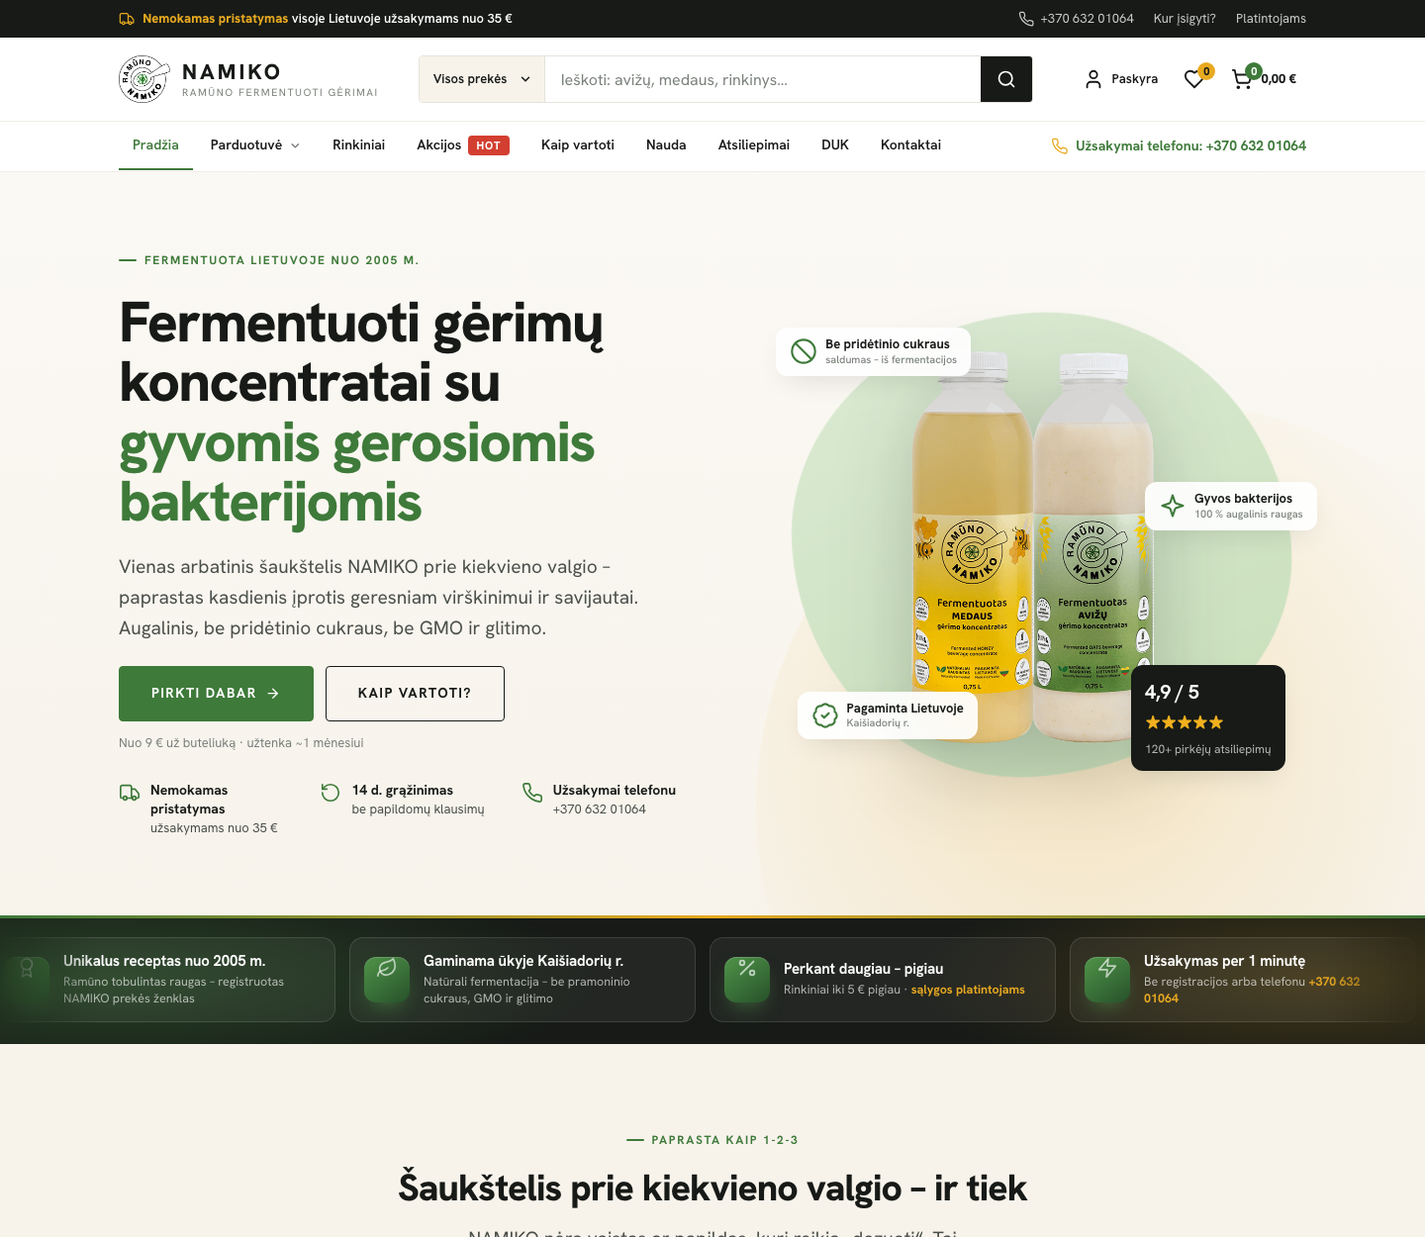
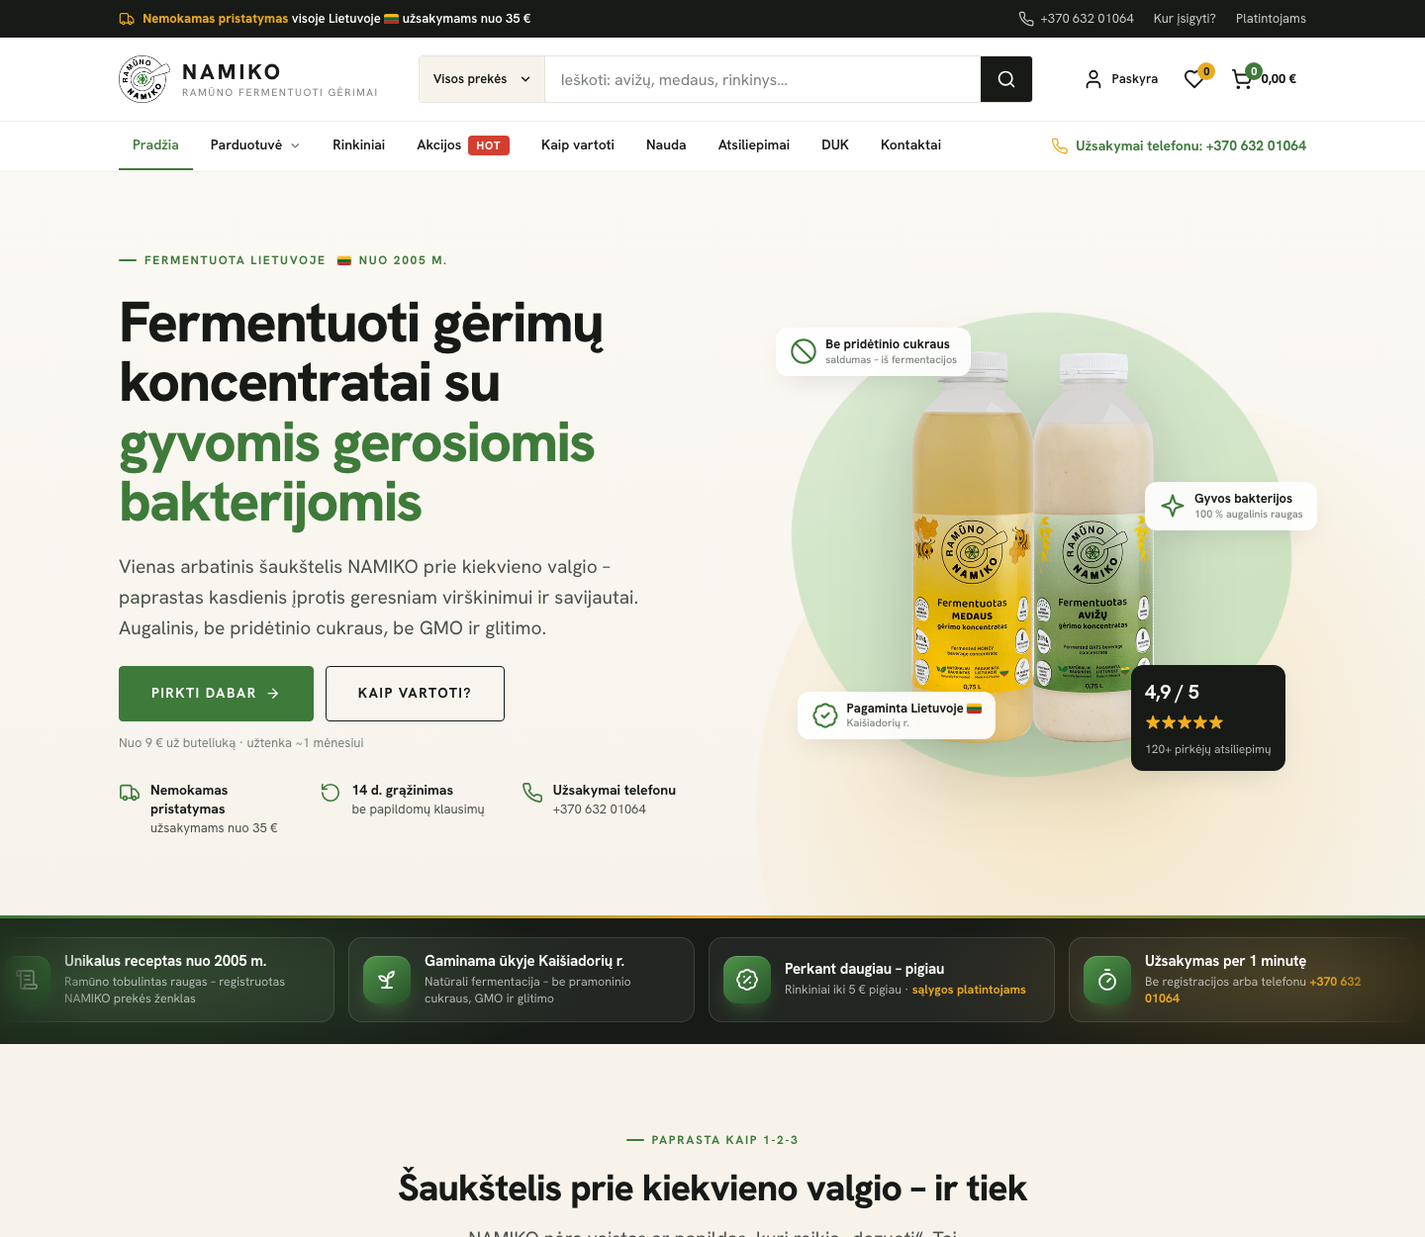
Judanti juosta: centruotos ikonų plytelės ir naujos ikonos
Pataisytas specifiškumo konfliktas (.usp-item span persverdavo .usp-icon
display:grid), ikonos pakeistos į receptą, daigą, nuolaidos ženklelį,
laikmatį ir pasikartojimą.

diff --git a/index.html b/index.html
@@ -14,7 +14,7 @@
 <link rel="preconnect" href="https://fonts.googleapis.com">
 <link rel="preconnect" href="https://fonts.gstatic.com" crossorigin>
 <link href="https://fonts.googleapis.com/css2?family=Hanken+Grotesk:ital,wght@0,400;0,500;0,600;0,700;0,800;1,400&display=swap" rel="stylesheet">
-<link rel="stylesheet" href="assets/css/style.css?v=9">
+<link rel="stylesheet" href="assets/css/style.css?v=10">
 <link rel="preload" as="image" href="assets/img/pradedanciuju-new.png" fetchpriority="high">
 </head>
 <body class="has-mobile-cta">
@@ -68,6 +68,11 @@
     <symbol id="i-trash" viewBox="0 0 24 24" fill="none" stroke="currentColor" stroke-width="2" stroke-linecap="round" stroke-linejoin="round"><path d="M3 6h18M8 6V4a2 2 0 0 1 2-2h4a2 2 0 0 1 2 2v2M19 6l-1 14a2 2 0 0 1-2 2H8a2 2 0 0 1-2-2L5 6"/></symbol>
     <symbol id="i-wheat" viewBox="0 0 24 24" fill="none" stroke="currentColor" stroke-width="1.8" stroke-linecap="round" stroke-linejoin="round"><path d="M2 22 16 8"/><path d="M3.47 12.53 5 11l1.53 1.53a3.5 3.5 0 0 1 0 4.94L5 19l-1.53-1.53a3.5 3.5 0 0 1 0-4.94Z"/><path d="M7.47 8.53 9 7l1.53 1.53a3.5 3.5 0 0 1 0 4.94L9 15l-1.53-1.53a3.5 3.5 0 0 1 0-4.94Z"/><path d="M11.47 4.53 13 3l1.53 1.53a3.5 3.5 0 0 1 0 4.94L13 11l-1.53-1.53a3.5 3.5 0 0 1 0-4.94Z"/><path d="M20 2h2v2a4 4 0 0 1-4 4h-2V6a4 4 0 0 1 4-4Z"/><path d="M11.47 17.47 13 19l-1.53 1.53a3.5 3.5 0 0 1-4.94 0L5 19l1.53-1.53a3.5 3.5 0 0 1 4.94 0Z"/><path d="M15.47 13.47 17 15l-1.53 1.53a3.5 3.5 0 0 1-4.94 0L9 15l1.53-1.53a3.5 3.5 0 0 1 4.94 0Z"/><path d="M19.47 9.47 21 11l-1.53 1.53a3.5 3.5 0 0 1-4.94 0L13 11l1.53-1.53a3.5 3.5 0 0 1 4.94 0Z"/></symbol>
     <symbol id="i-flag-lt" viewBox="0 0 24 16"><rect width="24" height="16" fill="#FDB913"/><rect y="5.333" width="24" height="5.334" fill="#006A44"/><rect y="10.667" width="24" height="5.333" fill="#C1272D"/></symbol>
+    <symbol id="i-scroll" viewBox="0 0 24 24" fill="none" stroke="currentColor" stroke-width="1.8" stroke-linecap="round" stroke-linejoin="round"><path d="M15 12h-5"/><path d="M15 8h-5"/><path d="M19 17V5a2 2 0 0 0-2-2H4"/><path d="M8 21h12a2 2 0 0 0 2-2v-1a1 1 0 0 0-1-1H11a1 1 0 0 0-1 1v1a2 2 0 1 1-4 0V5a2 2 0 1 0-4 0v2a1 1 0 0 0 1 1h3"/></symbol>
+    <symbol id="i-sprout" viewBox="0 0 24 24" fill="none" stroke="currentColor" stroke-width="1.8" stroke-linecap="round" stroke-linejoin="round"><path d="M7 20h10"/><path d="M10 20c5.5-2.5.8-6.4 3-10"/><path d="M9.5 9.4c1.1.8 1.8 2.2 2.3 3.7-2 .4-3.5.4-4.8-.3-1.2-.6-2.3-1.9-3-4.2 2.8-.5 4.4 0 5.5.8z"/><path d="M14.1 6a7 7 0 0 0-1.1 4c1.9-.1 3.3-.6 4.3-1.4 1-1 1.6-2.3 1.7-4.6-2.7.1-4 1-4.9 2z"/></symbol>
+    <symbol id="i-badge-percent" viewBox="0 0 24 24" fill="none" stroke="currentColor" stroke-width="1.8" stroke-linecap="round" stroke-linejoin="round"><path d="M3.85 8.62a4 4 0 0 1 4.78-4.77 4 4 0 0 1 6.74 0 4 4 0 0 1 4.78 4.78 4 4 0 0 1 0 6.74 4 4 0 0 1-4.77 4.78 4 4 0 0 1-6.75 0 4 4 0 0 1-4.78-4.77 4 4 0 0 1 0-6.76Z"/><path d="m15 9-6 6"/><path d="M9 9h.01"/><path d="M15 15h.01"/></symbol>
+    <symbol id="i-timer" viewBox="0 0 24 24" fill="none" stroke="currentColor" stroke-width="1.8" stroke-linecap="round" stroke-linejoin="round"><path d="M10 2h4"/><path d="m12 14 3-3"/><circle cx="12" cy="14" r="8"/></symbol>
+    <symbol id="i-repeat" viewBox="0 0 24 24" fill="none" stroke="currentColor" stroke-width="1.8" stroke-linecap="round" stroke-linejoin="round"><path d="m17 2 4 4-4 4"/><path d="M3 11v-1a4 4 0 0 1 4-4h14"/><path d="m7 22-4-4 4-4"/><path d="M21 13v1a4 4 0 0 1-4 4H3"/></symbol>
   </defs>
 </svg>
 
@@ -181,23 +186,23 @@
       <div class="marquee-track">
         <ul class="usp-list">
           <li class="usp-item">
-            <span class="usp-icon"><svg class="icon"><use href="#i-award"></use></svg></span>
+            <span class="usp-icon"><svg class="icon"><use href="#i-scroll"></use></svg></span>
             <div><b>Unikalus receptas nuo 2005 m.</b><span>Ramūno tobulintas raugas – registruotas NAMIKO prekės ženklas</span></div>
           </li>
           <li class="usp-item">
-            <span class="usp-icon"><svg class="icon"><use href="#i-leaf"></use></svg></span>
+            <span class="usp-icon"><svg class="icon"><use href="#i-sprout"></use></svg></span>
             <div><b>Gaminama ūkyje Kaišiadorių r.</b><span>Natūrali fermentacija – be pramoninio cukraus, GMO ir glitimo</span></div>
           </li>
           <li class="usp-item">
-            <span class="usp-icon"><svg class="icon"><use href="#i-percent"></use></svg></span>
+            <span class="usp-icon"><svg class="icon"><use href="#i-badge-percent"></use></svg></span>
             <div><b>Perkant daugiau – pigiau</b><span>Rinkiniai iki 5 € pigiau · <a href="#kontaktai">sąlygos platintojams</a></span></div>
           </li>
           <li class="usp-item">
-            <span class="usp-icon"><svg class="icon"><use href="#i-zap"></use></svg></span>
+            <span class="usp-icon"><svg class="icon"><use href="#i-timer"></use></svg></span>
             <div><b>Užsakymas per 1 minutę</b><span>Be registracijos arba telefonu <a href="tel:+37063201064">+370 632 01064</a></span></div>
           </li>
           <li class="usp-item">
-            <span class="usp-icon"><svg class="icon"><use href="#i-return"></use></svg></span>
+            <span class="usp-icon"><svg class="icon"><use href="#i-repeat"></use></svg></span>
             <div><b>Prenumerata kas mėnesį</b><span>Su nuolaida, bet kada sustabdoma · <a href="preke.html">užsisakyti</a></span></div>
           </li>
           <li class="usp-item">
@@ -667,6 +672,6 @@
 </footer>
 <div class="toast" data-toast role="status" aria-live="polite"><svg class="icon"><use href="#i-check"></use></svg><span data-toast-text></span></div>
 
-<script src="assets/js/main.js?v=9" defer></script>
+<script src="assets/js/main.js?v=10" defer></script>
 </body>
 </html>

diff --git a/pirkimas.html b/pirkimas.html
@@ -11,7 +11,7 @@
 <link rel="preconnect" href="https://fonts.googleapis.com">
 <link rel="preconnect" href="https://fonts.gstatic.com" crossorigin>
 <link href="https://fonts.googleapis.com/css2?family=Hanken+Grotesk:ital,wght@0,400;0,500;0,600;0,700;0,800;1,400&display=swap" rel="stylesheet">
-<link rel="stylesheet" href="assets/css/style.css?v=9">
+<link rel="stylesheet" href="assets/css/style.css?v=10">
 </head>
 <body style="background:#FBFAF7">
 <svg xmlns="http://www.w3.org/2000/svg" style="display:none" aria-hidden="true">
@@ -64,6 +64,11 @@
     <symbol id="i-trash" viewBox="0 0 24 24" fill="none" stroke="currentColor" stroke-width="2" stroke-linecap="round" stroke-linejoin="round"><path d="M3 6h18M8 6V4a2 2 0 0 1 2-2h4a2 2 0 0 1 2 2v2M19 6l-1 14a2 2 0 0 1-2 2H8a2 2 0 0 1-2-2L5 6"/></symbol>
     <symbol id="i-wheat" viewBox="0 0 24 24" fill="none" stroke="currentColor" stroke-width="1.8" stroke-linecap="round" stroke-linejoin="round"><path d="M2 22 16 8"/><path d="M3.47 12.53 5 11l1.53 1.53a3.5 3.5 0 0 1 0 4.94L5 19l-1.53-1.53a3.5 3.5 0 0 1 0-4.94Z"/><path d="M7.47 8.53 9 7l1.53 1.53a3.5 3.5 0 0 1 0 4.94L9 15l-1.53-1.53a3.5 3.5 0 0 1 0-4.94Z"/><path d="M11.47 4.53 13 3l1.53 1.53a3.5 3.5 0 0 1 0 4.94L13 11l-1.53-1.53a3.5 3.5 0 0 1 0-4.94Z"/><path d="M20 2h2v2a4 4 0 0 1-4 4h-2V6a4 4 0 0 1 4-4Z"/><path d="M11.47 17.47 13 19l-1.53 1.53a3.5 3.5 0 0 1-4.94 0L5 19l1.53-1.53a3.5 3.5 0 0 1 4.94 0Z"/><path d="M15.47 13.47 17 15l-1.53 1.53a3.5 3.5 0 0 1-4.94 0L9 15l1.53-1.53a3.5 3.5 0 0 1 4.94 0Z"/><path d="M19.47 9.47 21 11l-1.53 1.53a3.5 3.5 0 0 1-4.94 0L13 11l1.53-1.53a3.5 3.5 0 0 1 4.94 0Z"/></symbol>
     <symbol id="i-flag-lt" viewBox="0 0 24 16"><rect width="24" height="16" fill="#FDB913"/><rect y="5.333" width="24" height="5.334" fill="#006A44"/><rect y="10.667" width="24" height="5.333" fill="#C1272D"/></symbol>
+    <symbol id="i-scroll" viewBox="0 0 24 24" fill="none" stroke="currentColor" stroke-width="1.8" stroke-linecap="round" stroke-linejoin="round"><path d="M15 12h-5"/><path d="M15 8h-5"/><path d="M19 17V5a2 2 0 0 0-2-2H4"/><path d="M8 21h12a2 2 0 0 0 2-2v-1a1 1 0 0 0-1-1H11a1 1 0 0 0-1 1v1a2 2 0 1 1-4 0V5a2 2 0 1 0-4 0v2a1 1 0 0 0 1 1h3"/></symbol>
+    <symbol id="i-sprout" viewBox="0 0 24 24" fill="none" stroke="currentColor" stroke-width="1.8" stroke-linecap="round" stroke-linejoin="round"><path d="M7 20h10"/><path d="M10 20c5.5-2.5.8-6.4 3-10"/><path d="M9.5 9.4c1.1.8 1.8 2.2 2.3 3.7-2 .4-3.5.4-4.8-.3-1.2-.6-2.3-1.9-3-4.2 2.8-.5 4.4 0 5.5.8z"/><path d="M14.1 6a7 7 0 0 0-1.1 4c1.9-.1 3.3-.6 4.3-1.4 1-1 1.6-2.3 1.7-4.6-2.7.1-4 1-4.9 2z"/></symbol>
+    <symbol id="i-badge-percent" viewBox="0 0 24 24" fill="none" stroke="currentColor" stroke-width="1.8" stroke-linecap="round" stroke-linejoin="round"><path d="M3.85 8.62a4 4 0 0 1 4.78-4.77 4 4 0 0 1 6.74 0 4 4 0 0 1 4.78 4.78 4 4 0 0 1 0 6.74 4 4 0 0 1-4.77 4.78 4 4 0 0 1-6.75 0 4 4 0 0 1-4.78-4.77 4 4 0 0 1 0-6.76Z"/><path d="m15 9-6 6"/><path d="M9 9h.01"/><path d="M15 15h.01"/></symbol>
+    <symbol id="i-timer" viewBox="0 0 24 24" fill="none" stroke="currentColor" stroke-width="1.8" stroke-linecap="round" stroke-linejoin="round"><path d="M10 2h4"/><path d="m12 14 3-3"/><circle cx="12" cy="14" r="8"/></symbol>
+    <symbol id="i-repeat" viewBox="0 0 24 24" fill="none" stroke="currentColor" stroke-width="1.8" stroke-linecap="round" stroke-linejoin="round"><path d="m17 2 4 4-4 4"/><path d="M3 11v-1a4 4 0 0 1 4-4h14"/><path d="m7 22-4-4 4-4"/><path d="M21 13v1a4 4 0 0 1-4 4H3"/></symbol>
   </defs>
 </svg>
 
@@ -278,6 +283,6 @@
 </main>
 
 <div class="toast" data-toast role="status" aria-live="polite"><svg class="icon"><use href="#i-check"></use></svg><span data-toast-text></span></div>
-<script src="assets/js/main.js?v=9" defer></script>
+<script src="assets/js/main.js?v=10" defer></script>
 </body>
 </html>

diff --git a/preke.html b/preke.html
@@ -10,7 +10,7 @@
 <link rel="preconnect" href="https://fonts.googleapis.com">
 <link rel="preconnect" href="https://fonts.gstatic.com" crossorigin>
 <link href="https://fonts.googleapis.com/css2?family=Hanken+Grotesk:ital,wght@0,400;0,500;0,600;0,700;0,800;1,400&display=swap" rel="stylesheet">
-<link rel="stylesheet" href="assets/css/style.css?v=9">
+<link rel="stylesheet" href="assets/css/style.css?v=10">
 <link rel="preload" as="image" href="assets/img/avizu2.png" fetchpriority="high">
 </head>
 <body>
@@ -64,6 +64,11 @@
     <symbol id="i-trash" viewBox="0 0 24 24" fill="none" stroke="currentColor" stroke-width="2" stroke-linecap="round" stroke-linejoin="round"><path d="M3 6h18M8 6V4a2 2 0 0 1 2-2h4a2 2 0 0 1 2 2v2M19 6l-1 14a2 2 0 0 1-2 2H8a2 2 0 0 1-2-2L5 6"/></symbol>
     <symbol id="i-wheat" viewBox="0 0 24 24" fill="none" stroke="currentColor" stroke-width="1.8" stroke-linecap="round" stroke-linejoin="round"><path d="M2 22 16 8"/><path d="M3.47 12.53 5 11l1.53 1.53a3.5 3.5 0 0 1 0 4.94L5 19l-1.53-1.53a3.5 3.5 0 0 1 0-4.94Z"/><path d="M7.47 8.53 9 7l1.53 1.53a3.5 3.5 0 0 1 0 4.94L9 15l-1.53-1.53a3.5 3.5 0 0 1 0-4.94Z"/><path d="M11.47 4.53 13 3l1.53 1.53a3.5 3.5 0 0 1 0 4.94L13 11l-1.53-1.53a3.5 3.5 0 0 1 0-4.94Z"/><path d="M20 2h2v2a4 4 0 0 1-4 4h-2V6a4 4 0 0 1 4-4Z"/><path d="M11.47 17.47 13 19l-1.53 1.53a3.5 3.5 0 0 1-4.94 0L5 19l1.53-1.53a3.5 3.5 0 0 1 4.94 0Z"/><path d="M15.47 13.47 17 15l-1.53 1.53a3.5 3.5 0 0 1-4.94 0L9 15l1.53-1.53a3.5 3.5 0 0 1 4.94 0Z"/><path d="M19.47 9.47 21 11l-1.53 1.53a3.5 3.5 0 0 1-4.94 0L13 11l1.53-1.53a3.5 3.5 0 0 1 4.94 0Z"/></symbol>
     <symbol id="i-flag-lt" viewBox="0 0 24 16"><rect width="24" height="16" fill="#FDB913"/><rect y="5.333" width="24" height="5.334" fill="#006A44"/><rect y="10.667" width="24" height="5.333" fill="#C1272D"/></symbol>
+    <symbol id="i-scroll" viewBox="0 0 24 24" fill="none" stroke="currentColor" stroke-width="1.8" stroke-linecap="round" stroke-linejoin="round"><path d="M15 12h-5"/><path d="M15 8h-5"/><path d="M19 17V5a2 2 0 0 0-2-2H4"/><path d="M8 21h12a2 2 0 0 0 2-2v-1a1 1 0 0 0-1-1H11a1 1 0 0 0-1 1v1a2 2 0 1 1-4 0V5a2 2 0 1 0-4 0v2a1 1 0 0 0 1 1h3"/></symbol>
+    <symbol id="i-sprout" viewBox="0 0 24 24" fill="none" stroke="currentColor" stroke-width="1.8" stroke-linecap="round" stroke-linejoin="round"><path d="M7 20h10"/><path d="M10 20c5.5-2.5.8-6.4 3-10"/><path d="M9.5 9.4c1.1.8 1.8 2.2 2.3 3.7-2 .4-3.5.4-4.8-.3-1.2-.6-2.3-1.9-3-4.2 2.8-.5 4.4 0 5.5.8z"/><path d="M14.1 6a7 7 0 0 0-1.1 4c1.9-.1 3.3-.6 4.3-1.4 1-1 1.6-2.3 1.7-4.6-2.7.1-4 1-4.9 2z"/></symbol>
+    <symbol id="i-badge-percent" viewBox="0 0 24 24" fill="none" stroke="currentColor" stroke-width="1.8" stroke-linecap="round" stroke-linejoin="round"><path d="M3.85 8.62a4 4 0 0 1 4.78-4.77 4 4 0 0 1 6.74 0 4 4 0 0 1 4.78 4.78 4 4 0 0 1 0 6.74 4 4 0 0 1-4.77 4.78 4 4 0 0 1-6.75 0 4 4 0 0 1-4.78-4.77 4 4 0 0 1 0-6.76Z"/><path d="m15 9-6 6"/><path d="M9 9h.01"/><path d="M15 15h.01"/></symbol>
+    <symbol id="i-timer" viewBox="0 0 24 24" fill="none" stroke="currentColor" stroke-width="1.8" stroke-linecap="round" stroke-linejoin="round"><path d="M10 2h4"/><path d="m12 14 3-3"/><circle cx="12" cy="14" r="8"/></symbol>
+    <symbol id="i-repeat" viewBox="0 0 24 24" fill="none" stroke="currentColor" stroke-width="1.8" stroke-linecap="round" stroke-linejoin="round"><path d="m17 2 4 4-4 4"/><path d="M3 11v-1a4 4 0 0 1 4-4h14"/><path d="m7 22-4-4 4-4"/><path d="M21 13v1a4 4 0 0 1-4 4H3"/></symbol>
   </defs>
 </svg>
 
@@ -475,6 +480,6 @@
 </footer>
 <div class="toast" data-toast role="status" aria-live="polite"><svg class="icon"><use href="#i-check"></use></svg><span data-toast-text></span></div>
 
-<script src="assets/js/main.js?v=9" defer></script>
+<script src="assets/js/main.js?v=10" defer></script>
 </body>
 </html>

diff --git a/src/partials/sprite.html b/src/partials/sprite.html
@@ -48,5 +48,10 @@
     <symbol id="i-trash" viewBox="0 0 24 24" fill="none" stroke="currentColor" stroke-width="2" stroke-linecap="round" stroke-linejoin="round"><path d="M3 6h18M8 6V4a2 2 0 0 1 2-2h4a2 2 0 0 1 2 2v2M19 6l-1 14a2 2 0 0 1-2 2H8a2 2 0 0 1-2-2L5 6"/></symbol>
     <symbol id="i-wheat" viewBox="0 0 24 24" fill="none" stroke="currentColor" stroke-width="1.8" stroke-linecap="round" stroke-linejoin="round"><path d="M2 22 16 8"/><path d="M3.47 12.53 5 11l1.53 1.53a3.5 3.5 0 0 1 0 4.94L5 19l-1.53-1.53a3.5 3.5 0 0 1 0-4.94Z"/><path d="M7.47 8.53 9 7l1.53 1.53a3.5 3.5 0 0 1 0 4.94L9 15l-1.53-1.53a3.5 3.5 0 0 1 0-4.94Z"/><path d="M11.47 4.53 13 3l1.53 1.53a3.5 3.5 0 0 1 0 4.94L13 11l-1.53-1.53a3.5 3.5 0 0 1 0-4.94Z"/><path d="M20 2h2v2a4 4 0 0 1-4 4h-2V6a4 4 0 0 1 4-4Z"/><path d="M11.47 17.47 13 19l-1.53 1.53a3.5 3.5 0 0 1-4.94 0L5 19l1.53-1.53a3.5 3.5 0 0 1 4.94 0Z"/><path d="M15.47 13.47 17 15l-1.53 1.53a3.5 3.5 0 0 1-4.94 0L9 15l1.53-1.53a3.5 3.5 0 0 1 4.94 0Z"/><path d="M19.47 9.47 21 11l-1.53 1.53a3.5 3.5 0 0 1-4.94 0L13 11l1.53-1.53a3.5 3.5 0 0 1 4.94 0Z"/></symbol>
     <symbol id="i-flag-lt" viewBox="0 0 24 16"><rect width="24" height="16" fill="#FDB913"/><rect y="5.333" width="24" height="5.334" fill="#006A44"/><rect y="10.667" width="24" height="5.333" fill="#C1272D"/></symbol>
+    <symbol id="i-scroll" viewBox="0 0 24 24" fill="none" stroke="currentColor" stroke-width="1.8" stroke-linecap="round" stroke-linejoin="round"><path d="M15 12h-5"/><path d="M15 8h-5"/><path d="M19 17V5a2 2 0 0 0-2-2H4"/><path d="M8 21h12a2 2 0 0 0 2-2v-1a1 1 0 0 0-1-1H11a1 1 0 0 0-1 1v1a2 2 0 1 1-4 0V5a2 2 0 1 0-4 0v2a1 1 0 0 0 1 1h3"/></symbol>
+    <symbol id="i-sprout" viewBox="0 0 24 24" fill="none" stroke="currentColor" stroke-width="1.8" stroke-linecap="round" stroke-linejoin="round"><path d="M7 20h10"/><path d="M10 20c5.5-2.5.8-6.4 3-10"/><path d="M9.5 9.4c1.1.8 1.8 2.2 2.3 3.7-2 .4-3.5.4-4.8-.3-1.2-.6-2.3-1.9-3-4.2 2.8-.5 4.4 0 5.5.8z"/><path d="M14.1 6a7 7 0 0 0-1.1 4c1.9-.1 3.3-.6 4.3-1.4 1-1 1.6-2.3 1.7-4.6-2.7.1-4 1-4.9 2z"/></symbol>
+    <symbol id="i-badge-percent" viewBox="0 0 24 24" fill="none" stroke="currentColor" stroke-width="1.8" stroke-linecap="round" stroke-linejoin="round"><path d="M3.85 8.62a4 4 0 0 1 4.78-4.77 4 4 0 0 1 6.74 0 4 4 0 0 1 4.78 4.78 4 4 0 0 1 0 6.74 4 4 0 0 1-4.77 4.78 4 4 0 0 1-6.75 0 4 4 0 0 1-4.78-4.77 4 4 0 0 1 0-6.76Z"/><path d="m15 9-6 6"/><path d="M9 9h.01"/><path d="M15 15h.01"/></symbol>
+    <symbol id="i-timer" viewBox="0 0 24 24" fill="none" stroke="currentColor" stroke-width="1.8" stroke-linecap="round" stroke-linejoin="round"><path d="M10 2h4"/><path d="m12 14 3-3"/><circle cx="12" cy="14" r="8"/></symbol>
+    <symbol id="i-repeat" viewBox="0 0 24 24" fill="none" stroke="currentColor" stroke-width="1.8" stroke-linecap="round" stroke-linejoin="round"><path d="m17 2 4 4-4 4"/><path d="M3 11v-1a4 4 0 0 1 4-4h14"/><path d="m7 22-4-4 4-4"/><path d="M21 13v1a4 4 0 0 1-4 4H3"/></symbol>
   </defs>
 </svg>

diff --git a/src/pages/index.html b/src/pages/index.html
@@ -14,7 +14,7 @@
 <link rel="preconnect" href="https://fonts.googleapis.com">
 <link rel="preconnect" href="https://fonts.gstatic.com" crossorigin>
 <link href="https://fonts.googleapis.com/css2?family=Hanken+Grotesk:ital,wght@0,400;0,500;0,600;0,700;0,800;1,400&display=swap" rel="stylesheet">
-<link rel="stylesheet" href="assets/css/style.css?v=9">
+<link rel="stylesheet" href="assets/css/style.css?v=10">
 <link rel="preload" as="image" href="assets/img/pradedanciuju-new.png" fetchpriority="high">
 </head>
 <body class="has-mobile-cta">
@@ -58,23 +58,23 @@
       <div class="marquee-track">
         <ul class="usp-list">
           <li class="usp-item">
-            <span class="usp-icon"><svg class="icon"><use href="#i-award"></use></svg></span>
+            <span class="usp-icon"><svg class="icon"><use href="#i-scroll"></use></svg></span>
             <div><b>Unikalus receptas nuo 2005 m.</b><span>Ramūno tobulintas raugas – registruotas NAMIKO prekės ženklas</span></div>
           </li>
           <li class="usp-item">
-            <span class="usp-icon"><svg class="icon"><use href="#i-leaf"></use></svg></span>
+            <span class="usp-icon"><svg class="icon"><use href="#i-sprout"></use></svg></span>
             <div><b>Gaminama ūkyje Kaišiadorių r.</b><span>Natūrali fermentacija – be pramoninio cukraus, GMO ir glitimo</span></div>
           </li>
           <li class="usp-item">
-            <span class="usp-icon"><svg class="icon"><use href="#i-percent"></use></svg></span>
+            <span class="usp-icon"><svg class="icon"><use href="#i-badge-percent"></use></svg></span>
             <div><b>Perkant daugiau – pigiau</b><span>Rinkiniai iki 5 € pigiau · <a href="#kontaktai">sąlygos platintojams</a></span></div>
           </li>
           <li class="usp-item">
-            <span class="usp-icon"><svg class="icon"><use href="#i-zap"></use></svg></span>
+            <span class="usp-icon"><svg class="icon"><use href="#i-timer"></use></svg></span>
             <div><b>Užsakymas per 1 minutę</b><span>Be registracijos arba telefonu <a href="tel:+37063201064">+370 632 01064</a></span></div>
           </li>
           <li class="usp-item">
-            <span class="usp-icon"><svg class="icon"><use href="#i-return"></use></svg></span>
+            <span class="usp-icon"><svg class="icon"><use href="#i-repeat"></use></svg></span>
             <div><b>Prenumerata kas mėnesį</b><span>Su nuolaida, bet kada sustabdoma · <a href="preke.html">užsisakyti</a></span></div>
           </li>
           <li class="usp-item">
@@ -479,6 +479,6 @@
 </div>
 
 {{footer}}
-<script src="assets/js/main.js?v=9" defer></script>
+<script src="assets/js/main.js?v=10" defer></script>
 </body>
 </html>

diff --git a/assets/css/style.css b/assets/css/style.css
@@ -235,8 +235,8 @@ ul{margin:0;padding:0;list-style:none}
 .usp-list{display:flex;gap:14px;margin-right:14px;padding:0;align-items:stretch}
 .usp-item{flex:none;display:flex;gap:14px;align-items:center;width:clamp(280px,25vw,350px);padding:14px 18px 14px 14px;border:1px solid rgba(255,255,255,.12);border-radius:14px;background:rgba(255,255,255,.05);backdrop-filter:blur(6px);-webkit-backdrop-filter:blur(6px);transition:background .3s,border-color .3s,transform .3s var(--ease)}
 .usp-item:hover{background:rgba(255,255,255,.1);border-color:rgba(255,255,255,.24);transform:translateY(-2px)}
-.usp-icon{flex:none;display:grid;place-items:center;width:46px;height:46px;border-radius:12px;background:linear-gradient(145deg,#4F9449,var(--green-700));color:#fff;box-shadow:0 10px 22px -10px rgba(79,148,73,.9),inset 0 1px 0 rgba(255,255,255,.18)}
-.usp-icon .icon{width:22px;height:22px}
+.usp-item .usp-icon{flex:none;display:grid;place-items:center;width:48px;height:48px;border-radius:14px;background:linear-gradient(145deg,#4F9449,var(--green-700));color:#fff;box-shadow:0 10px 22px -10px rgba(79,148,73,.9),inset 0 1px 0 rgba(255,255,255,.2);font-size:0;line-height:0}
+.usp-item .usp-icon .icon{width:24px;height:24px;display:block}
 .usp-item b{display:block;font-size:.9375rem;line-height:1.2;margin-bottom:4px;letter-spacing:-.01em;color:#fff}
 .usp-item span{display:block;font-size:.78rem;color:rgba(255,255,255,.66);line-height:1.35}
 .usp-item a{font-weight:700;color:var(--honey);text-decoration:none}
@@ -248,7 +248,7 @@ html.no-js .marquee-track{animation:none}
   .usp-list{flex-wrap:wrap;justify-content:center;margin-right:0}
   .usp-list[aria-hidden="true"]{display:none}
 }
-@media (max-width:560px){.marquee{padding-block:14px}.usp-item{width:272px;padding:12px;gap:12px}.usp-icon{width:40px;height:40px}}
+@media (max-width:560px){.marquee{padding-block:14px}.usp-item{width:272px;padding:12px;gap:12px}.usp-item .usp-icon{width:42px;height:42px}.usp-item .usp-icon .icon{width:21px;height:21px}}
 
 /* ---------- Kaip veikia – 3 žingsniai su nuotraukomis (Pexels) ---------- */
 .step-num{display:inline-grid;place-items:center;width:44px;height:44px;border-radius:50%;background:var(--green);color:#fff;font-weight:800;font-size:1.05rem;margin-bottom:18px}

diff --git a/src/pages/pirkimas.html b/src/pages/pirkimas.html
@@ -11,7 +11,7 @@
 <link rel="preconnect" href="https://fonts.googleapis.com">
 <link rel="preconnect" href="https://fonts.gstatic.com" crossorigin>
 <link href="https://fonts.googleapis.com/css2?family=Hanken+Grotesk:ital,wght@0,400;0,500;0,600;0,700;0,800;1,400&display=swap" rel="stylesheet">
-<link rel="stylesheet" href="assets/css/style.css?v=9">
+<link rel="stylesheet" href="assets/css/style.css?v=10">
 </head>
 <body style="background:#FBFAF7">
 {{sprite}}
@@ -213,6 +213,6 @@
 </main>
 
 <div class="toast" data-toast role="status" aria-live="polite"><svg class="icon"><use href="#i-check"></use></svg><span data-toast-text></span></div>
-<script src="assets/js/main.js?v=9" defer></script>
+<script src="assets/js/main.js?v=10" defer></script>
 </body>
 </html>

diff --git a/src/pages/preke.html b/src/pages/preke.html
@@ -10,7 +10,7 @@
 <link rel="preconnect" href="https://fonts.googleapis.com">
 <link rel="preconnect" href="https://fonts.gstatic.com" crossorigin>
 <link href="https://fonts.googleapis.com/css2?family=Hanken+Grotesk:ital,wght@0,400;0,500;0,600;0,700;0,800;1,400&display=swap" rel="stylesheet">
-<link rel="stylesheet" href="assets/css/style.css?v=9">
+<link rel="stylesheet" href="assets/css/style.css?v=10">
 <link rel="preload" as="image" href="assets/img/avizu2.png" fetchpriority="high">
 </head>
 <body>
@@ -287,6 +287,6 @@
 </div>
 
 {{footer}}
-<script src="assets/js/main.js?v=9" defer></script>
+<script src="assets/js/main.js?v=10" defer></script>
 </body>
 </html>
